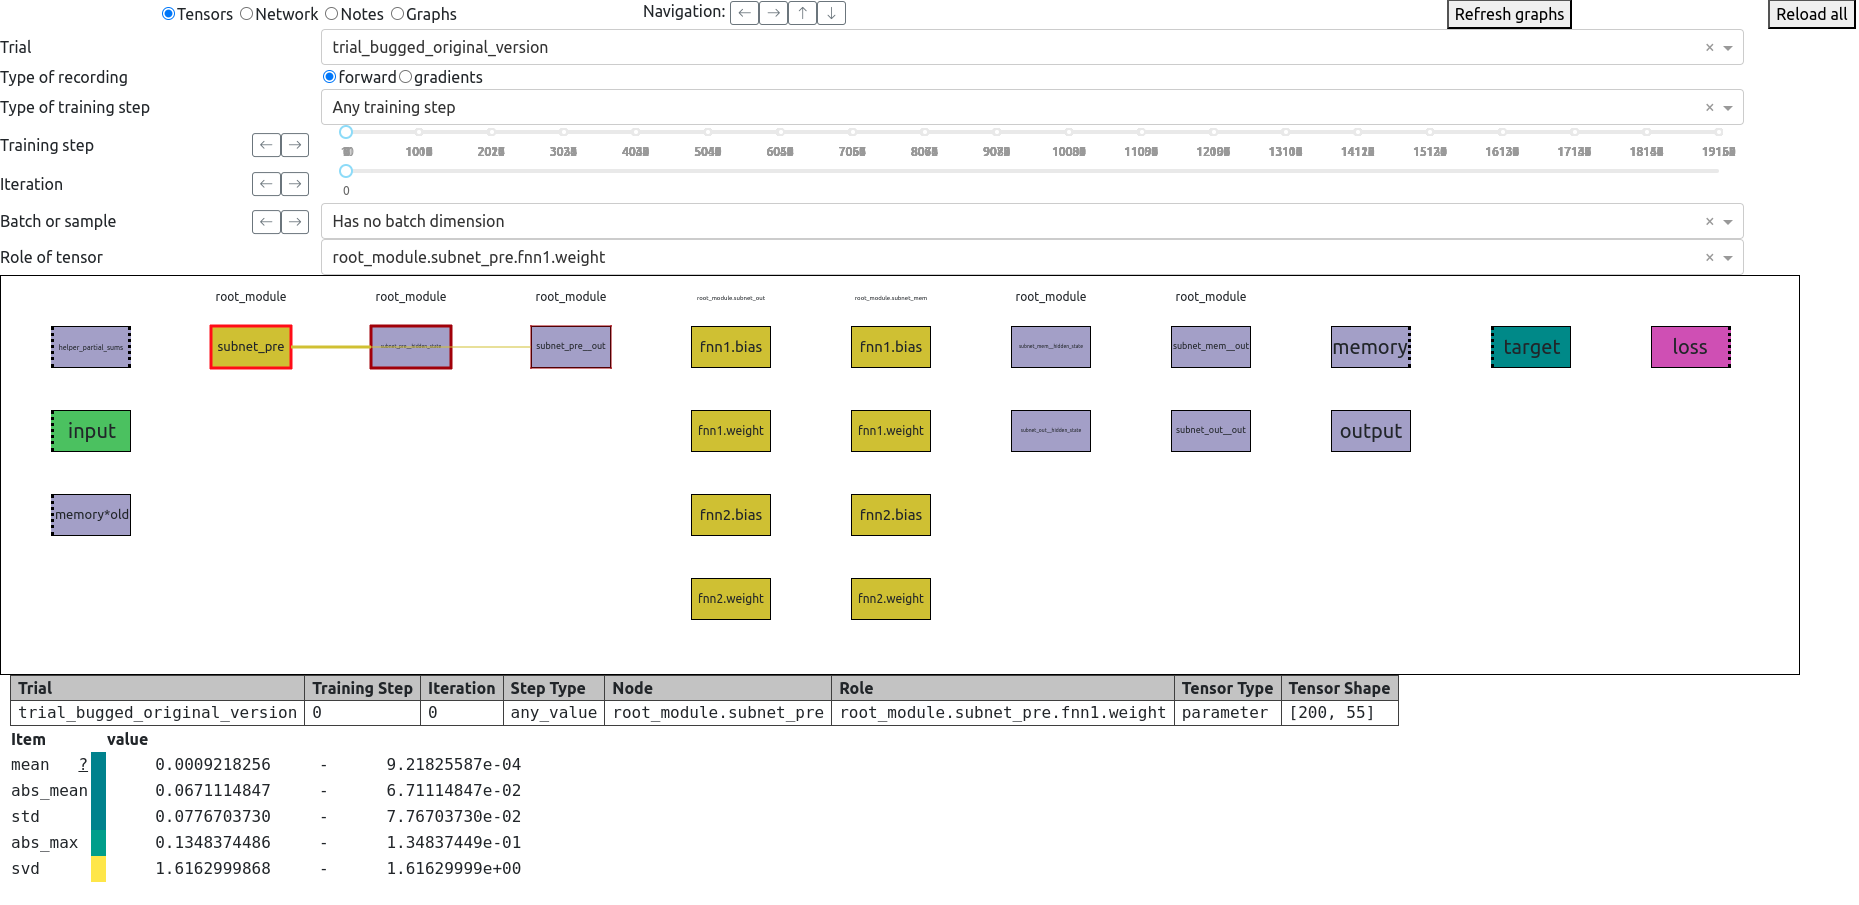
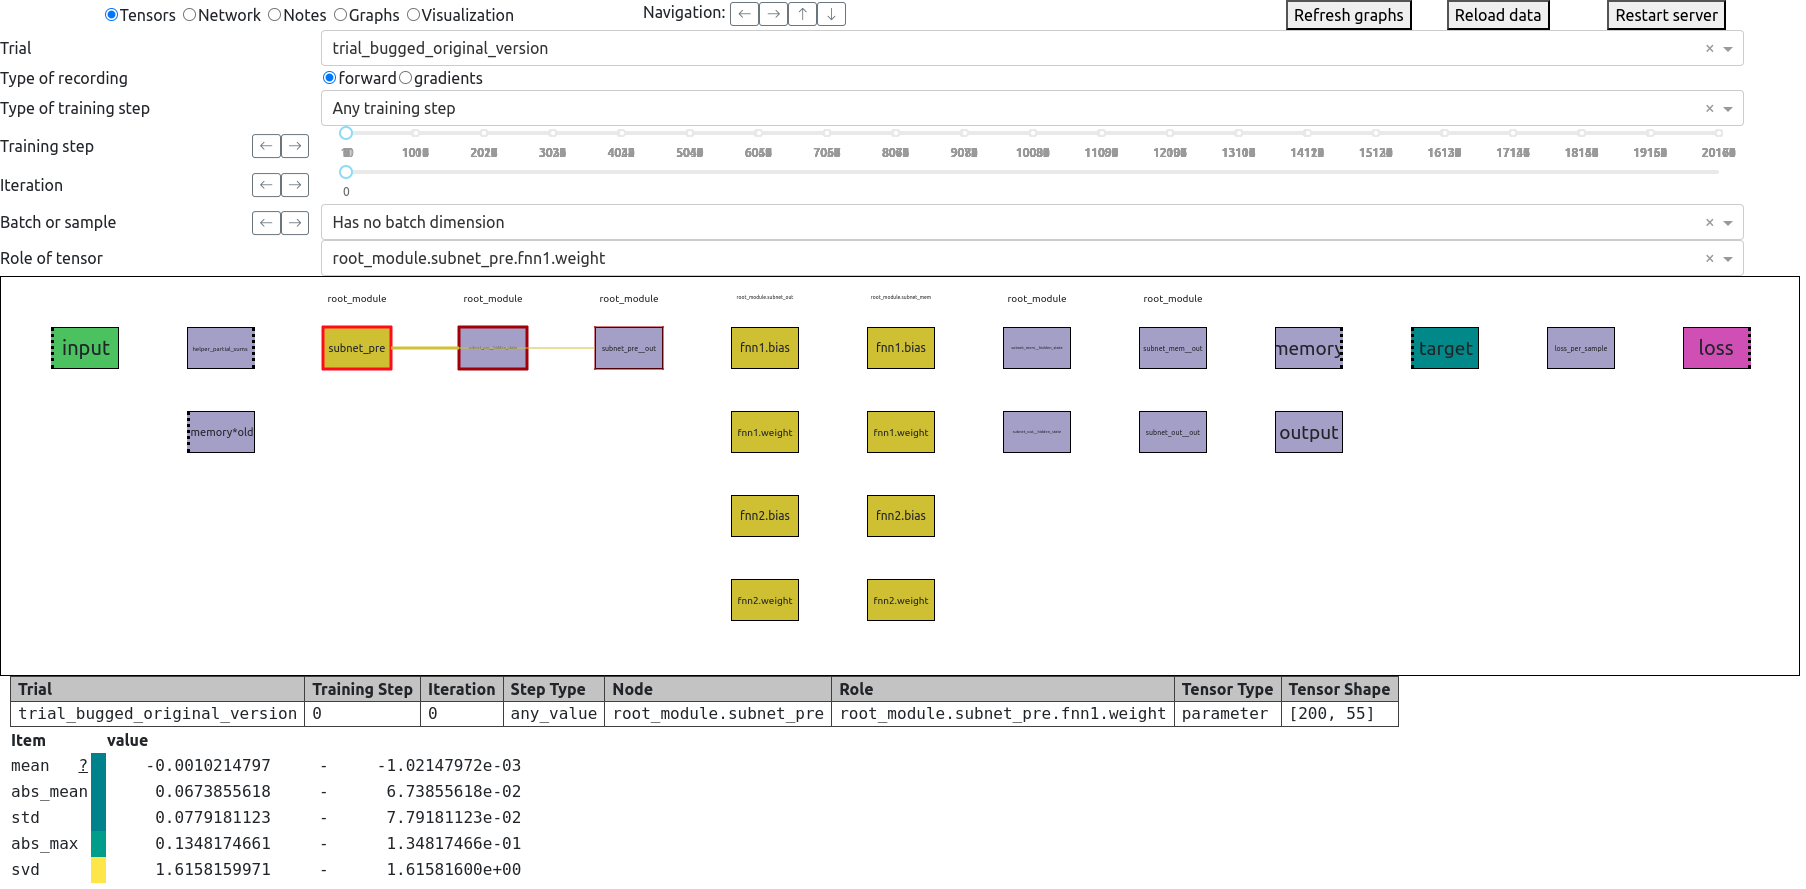
update graphs

diff --git a/src/scripts/run.py b/src/scripts/run.py
@@ -226,7 +226,7 @@ class Demonstration:
                 # Calculate the loss
                 # Remember that we use a modified criterion here so that we can inspect the loss per sample,
                 # so we need to explicitly take the mean afterward.
-                loss_per_sample = self.criterion(output, target_tensor).unsqueeze(1)
+                loss_per_sample = self.criterion(output, target_tensor)
                 comgra.my_recorder.register_tensor(f"loss_per_sample", loss_per_sample)
                 loss = loss_per_sample.mean()
                 comgra.my_recorder.register_tensor(f"loss", loss, is_loss=True)

diff --git a/README.md b/README.md
@@ -25,7 +25,7 @@ Comgra records everything that could be relevant to you, and allows you to inspe
 
 Suitable both for novices and for professional neural architecture designers: Create a simple visualization of your network to understand what is happening under the hood, or perform advanced analyses and trace anomalies through the computation graph.
 
-| <img src="src/assets/screenshots_for_tutorial/main_overview_version_3.png" width="100%"/>
+| <img src="src/assets/screenshots_for_tutorial/main_overview.png" width="100%"/>
 | -
 
 Comgra's GUI has three parts:
@@ -134,7 +134,6 @@ As a first step, let's look at network summary information, graphs, and the note
 
 The Notes tab shows anything that we logged with `add_note()`. If we scroll down, we see that performance improves, but it does not look very good.
 
-
 | <img src="src/assets/screenshots_for_tutorial/graphs_info.png" width="100%"/>
 | -
 
@@ -155,7 +154,7 @@ Let's start by setting some selectors to some arbitrary but sensible values to g
 * Set the "Type of training Step" to "05_iterations" so that we are only shown training steps that ran for exactly 5 iterations.
 * Select the last iteration: Note that the Node for the Loss only appears in the computational graph if the last iteration is selected, because a loss is only applied on the last iteration.
 * Select the "input" node.
-* Set "Batch or sample" to "sample 0": The values at the bottom of the screen now show the values for only the first element of the batch. This makes it possible to investigate how the network reacts to specific examples, while "Mean over the batch" is more useful for investigating how statistics change over time. Note that the values "mean", "abs_mean", "std", and "abs_max" at the bottom of the screen are statistics over the value dimension of the tensor. Setting "Batch or sample" to "Mean over the batch" means that it additionally calculates the mean over the batch dimension after calculating the statistic over the value dimension. This combination gives you a lot of flexibility in how you look at the data.
+* Set "Batch or sample" to "Sample 0": The values at the bottom of the screen now show the values for only the first element of the batch. This makes it possible to investigate how the network reacts to specific examples, while "Mean over the batch" is more useful for investigating how statistics change over time. Note that the values "mean", "abs_mean", "std", and "abs_max" at the bottom of the screen are statistics over the value dimension of the tensor. Setting "Batch or sample" to "Mean over the batch" means that it additionally calculates the mean over the batch dimension after calculating the statistic over the value dimension. This combination gives you a lot of flexibility in how you look at the data.
 
 | <img src="src/assets/screenshots_for_tutorial/slideshow_nodes/01.png" width="100%"/>
 | -
@@ -163,7 +162,7 @@ Let's start by setting some selectors to some arbitrary but sensible values to g
 We have currently selected the "input" node in the dependency graph (the green node at the top left). The lines that go from the selected node to other nodes indicate dependencies. In the following we move along the dependency graph by clicking on subsequent nodes until we get to the "Loss" node. (Note that a different node is highlighted in each image).
 
 <details>
-  <summary><b>Click here to expand: Walking through the computation graph</b></summary>
+  <summary><b>Click here to expand: Walking through the dependency graph</b></summary>
 
   | <img src="src/assets/screenshots_for_tutorial/slideshow_nodes/02.png" width="100%"/>
   | -
@@ -181,6 +180,9 @@ We have currently selected the "input" node in the dependency graph (the green n
   | -
 
   | <img src="src/assets/screenshots_for_tutorial/slideshow_nodes/07.png" width="100%"/>
+  | -
+
+  | <img src="src/assets/screenshots_for_tutorial/slideshow_nodes/08.png" width="100%"/>
   | -
 </details>
 
